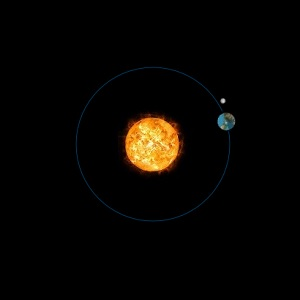
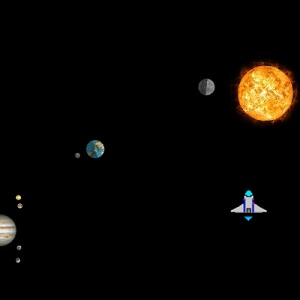
Update SolSys description

diff --git a/js/translation.js b/js/translation.js
@@ -32,7 +32,7 @@ function toItalian(){
 	$(".more").html('Dettagli <span class="icon-plus-square"></span>');
 	trTxt("downloadID","<a title='Scarica una versione leggera del portfolio.' href='indexCompact.html' download='Mario Cannistrà - Web Developer e Programmatore - Portfolio.html'>Scarica il mio Portfolio <span class='icon-download'></span></a>");
 	trTxt("htitleID","Mario Cannistrà - Web Developer e Programmatore - Portfolio");
-	trTxt("profileID","Sono un programmatore e sviluppatore di siti Web di 25 anni. <br>Vivo in Italia, e parlo Inglese fluentemente.<br>Ho esperienza di sviluppo front-end, back-end, e di applicazioni per computer.");
+	trTxt("profileID","Sono un programmatore e sviluppatore di siti Web di 26 anni. <br>Vivo in Italia, e parlo Inglese fluentemente.<br>Ho esperienza di sviluppo front-end, back-end, e di applicazioni per computer.");
 	trTxt("skillsID","Abilità");
 	trTxt("locationID","<span class='icon-map-marker'></span><p> Catanzaro, Italia</p>");
 	trTxt("githubID",'<img src="img/GitHub-Mark-32px.png"> Il mio profilo GitHub');
@@ -60,9 +60,8 @@ function toItalian(){
 		Ho risolto il problema aggiornando periodicamente un array con la posizione di ogni \
 		sezione del serpente, e permettendo al cibo di comparire solo nelle sezioni della mappa non occupate dal serpente.");
 	trTxt("solsysMoreTxt",
-		"Questa è solo una semplice animazione che ho fatto per imparare a usare la <code>canvas</code> di HTML5.<br>\
-		Ci ho lavorato quando stavo ancora imparando Javascript, quindi è molto basilare al momento,\
-		ma penso di migliorarla in futuro, e aggiungere gli altri pianeti quando avrò del tempo libero.");
+		"Questa è un che ho fatto inizialmente per imparare a usare la <code>canvas</code> di HTML5, ma in seguito ho deciso di rifare tutto con Phaser.<br>\
+		Ho iniziato a farla quando stavo ancora imparando Javascript, quindi era molto basilare, ma adesso ho aggiunto più cose.");
 	trTxt("starStuffMoreTxt",
 		"Ho iniziato a sviluppare questo gioco per imparare a usare Qt, ma ho acquisito molta esperienza di programmazione\
 		in generale grazie a questo progetto.<br>\
@@ -74,7 +73,7 @@ function toItalian(){
 	trTxt("otherID","Altro");
 	trTxt("titleID","Sviluppatore Web e Programmatore");
 	trTxt("projectsID","Progetti");
-	trTxt("SolSysDescID","Animazione del Sistema Solare che ho realizzato usando la Canvas di HTML5 e Javascript.");
+	trTxt("SolSysDescID","Animazione del Sistema Solare che ho realizzato usando Phaser.");
 	trTxt("StStfDescID","Un gioco realizzato in C++ con Qt. Ancora incompleto e non in sviluppo attivo per il momento.");
 	trTxt("crawlerDescID","Un clone del gioco Snake. Ho sviluppato questa pagina per dimostrare le tecnologie <a href='https://en.wikipedia.org/wiki/MEAN_(software_bundle)' target='_blank'> MEAN</a>.")
 	trTxt("ICDMDescID","Un social network <a href='https://en.wikipedia.org/wiki/MEAN_(software_bundle)' target='_blank'> MEAN</a> per pescatori subacquei. Permette di condividere la propria posizine tramite geolocalizzazione, e di chattare.");
@@ -85,7 +84,7 @@ function toEnglish(){
 	$(".more").html('Details <span class="icon-plus-square"></span>');
 	trTxt("downloadID","<a title='Downloads a light version of the portfolio.' href='indexCompact.html' download='Mario Cannistrà - Web Developer and Programmer - portfolio.html'>Download my Portfolio <span class='icon-download'></span></a>");
 	trTxt("htitleID","Mario Cannistrà - Web Developer and Programmer - Portfolio");
-	trTxt("profileID","I am a 25 year old Web Developer and Programmer. <br>I live in Italy, and I speak English fluently.<br>I have experience with front-end and back-end web development, and software development.");
+	trTxt("profileID","I am a 26 year old Web Developer and Programmer. <br>I live in Italy, and I speak English fluently.<br>I have experience with front-end and back-end web development, and software development.");
 	trTxt("skillsID","Skills");
 	trTxt("locationID","<span class='icon-map-marker'></span><p> Catanzaro, Italy</p>");
 	trTxt("githubID",'<img src="img/GitHub-Mark-32px.png"> My GitHub profile');
@@ -115,9 +114,8 @@ function toEnglish(){
 		updating an array with the position of each piece of the snake, \
 		and allowing the food to spawn only on coordinates that are not occupied by the snake.");
 	trTxt("solsysMoreTxt",
-		"This is just a simple animation that I made in order to learn how to use HTML5's <code>canvas</code>.<br>\
-		I made it when I was first learning Javascript, so it's very basic at the moment, but I plan to improve it\
-		and add the rest of the planets when I have some free time.");
+		"This is an animation that I made initially in order to learn how to use HTML5's <code>canvas</code>, but then I remade it using Phaser.<br>\
+		I started making it when I was first learning Javascript, so it was initially very simple, but now I've added a few more things.");
 	trTxt("starStuffMoreTxt",
 		"I started making this game to try my hand at Qt, but I've gained a lot of programming experience from this project.<br>\
 		I suspended development for the foreseeable future, when I decided to focus on web development, but I might \
@@ -128,7 +126,7 @@ function toEnglish(){
 	trTxt("otherID","Other");
 	trTxt("titleID","Web Developer and Programmer");
 	trTxt("projectsID","Projects");
-	trTxt("SolSysDescID","Animation of the Solar system I made using HTML5's Canvas and Javascript.");
+	trTxt("SolSysDescID","Animation of the Solar system I made using Phaser.");
 	trTxt("StStfDescID","A game made in C++ with Qt. Still incomplete and on hold for the moment.");
 	trTxt("crawlerDescID","A clone of the game Snake. I made this to demonstrate the <a href='https://en.wikipedia.org/wiki/MEAN_(software_bundle)' target='_blank'>MEAN stack</a> technologies.");
 	trTxt("ICDMDescID","A <a href='https://en.wikipedia.org/wiki/MEAN_(software_bundle)' target='_blank'>MEAN</a> social network for spearfishers. It allows users to share their current location through geolocation, and chat with eachother.");

diff --git a/indexCompact.html b/indexCompact.html
@@ -312,7 +312,7 @@ function toItalian(){
 	$(".more").html('Dettagli <span class="icon-plus-square"></span>');
 	trTxt("downloadID","<a title='Scarica una versione leggera del portfolio.' href='indexCompact.html' download='Mario Cannistrà - Web Developer e Programmatore - Portfolio.html'>Scarica il mio Portfolio <span class='icon-download'></span></a>");
 	trTxt("htitleID","Mario Cannistrà - Web Developer e Programmatore - Portfolio");
-	trTxt("profileID","Sono un programmatore e sviluppatore di siti Web di 25 anni. <br>Vivo in Italia, e parlo Inglese fluentemente.<br>Ho esperienza di sviluppo front-end, back-end, e di applicazioni per computer.");
+	trTxt("profileID","Sono un programmatore e sviluppatore di siti Web di 26 anni. <br>Vivo in Italia, e parlo Inglese fluentemente.<br>Ho esperienza di sviluppo front-end, back-end, e di applicazioni per computer.");
 	trTxt("skillsID","Abilità");
 	trTxt("locationID","<span class='icon-map-marker'></span><p> Catanzaro, Italia</p>");
 	trTxt("githubID",'Il mio profilo GitHub');
@@ -340,9 +340,8 @@ function toItalian(){
 		Ho risolto il problema aggiornando periodicamente un array con la posizione di ogni \
 		sezione del serpente, e permettendo al cibo di comparire solo nelle sezioni della mappa non occupate dal serpente.");
 	trTxt("solsysMoreTxt",
-		"Questa è solo una semplice animazione che ho fatto per imparare a usare la <code>canvas</code> di HTML5.<br>\
-		Ci ho lavorato quando stavo ancora imparando Javascript, quindi è molto basilare al momento,\
-		ma penso di migliorarla in futuro, e aggiungere gli altri pianeti quando avrò del tempo libero.");
+		"Questa è un che ho fatto inizialmente per imparare a usare la <code>canvas</code> di HTML5, ma in seguito ho deciso di rifare tutto con Phaser.<br>\
+		Ho iniziato a farla quando stavo ancora imparando Javascript, quindi era molto basilare, ma adesso ho aggiunto più cose.");
 	trTxt("starStuffMoreTxt",
 		"Ho iniziato a sviluppare questo gioco per imparare a usare Qt, ma ho acquisito molta esperienza di programmazione\
 		in generale grazie a questo progetto.<br>\
@@ -365,7 +364,7 @@ function toEnglish(){
 	$(".more").html('Details <span class="icon-plus-square"></span>');
 	trTxt("downloadID","<a title='Downloads a light version of the portfolio.' href='indexCompact.html' download='Mario Cannistrà - Web Developer and Programmer - portfolio.html'>Download my Portfolio <span class='icon-download'></span></a>");
 	trTxt("htitleID","Mario Cannistrà - Web Developer and Programmer - Portfolio");
-	trTxt("profileID","I am a 25 year old Web Developer and Programmer. <br>I live in Italy, and I speak English fluently.<br>I have experience with front-end and back-end web development, and software development.");
+	trTxt("profileID","I am a 26 year old Web Developer and Programmer. <br>I live in Italy, and I speak English fluently.<br>I have experience with front-end and back-end web development, and software development.");
 	trTxt("skillsID","Skills");
 	trTxt("locationID","<span class='icon-map-marker'></span><p> Catanzaro, Italy</p>");
 	trTxt("githubID",'My GitHub profile');
@@ -395,9 +394,8 @@ function toEnglish(){
 		updating an array with the position of each piece of the snake, \
 		and allowing the food to spawn only on coordinates that are not occupied by the snake.");
 	trTxt("solsysMoreTxt",
-		"This is just a simple animation that I made in order to learn how to use HTML5's <code>canvas</code>.<br>\
-		I made it when I was first learning Javascript, so it's very basic at the moment, but I plan to improve it\
-		and add the rest of the planets when I have some free time.");
+		"This is an animation that I made initially in order to learn how to use HTML5's <code>canvas</code>, but then I remade it using Phaser.<br>\
+		I started making it when I was first learning Javascript, so it was initially very simple, but now I've added a few more things.");
 	trTxt("starStuffMoreTxt",
 		"I started making this game to try my hand at Qt, but I've gained a lot of programming experience from this project.<br>\
 		I suspended development for the foreseeable future, when I decided to focus on web development, but I might \
@@ -434,7 +432,7 @@ function toEnglish(){
 			alt="Profile picture">
 			<h1>Mario Cannistrà</h1>
 			<h2 id="titleID">Web Developer and Programmer</h2>
-			<p id="profileID">I am a 25 year old Web Developer and Programmer. <br>
+			<p id="profileID">I am a 26 year old Web Developer and Programmer. <br>
 				I live in Italy, and I speak English fluently.<br>
 				I have experience with front-end and back-end web development, and software development.
 				Feel free to contact me if you have questions.

diff --git a/index.html b/index.html
@@ -39,7 +39,7 @@
 			<img src="img/115X115.jpg" alt="Profile picture">
 			<h1>Mario Cannistrà</h1>
 			<h2 id="titleID">Web Developer and Programmer</h2>
-			<p id="profileID">I am a 25 year old Web Developer and Programmer. <br>
+			<p id="profileID">I am a 26 year old Web Developer and Programmer. <br>
 				I live in Italy, and I speak English fluently.<br>
 				I have experience with front-end and back-end web development, and software development.
 				Feel free to contact me if you have questions.
@@ -160,7 +160,7 @@
 				<p class="skillTag"><img src="img/icons/css3.png" alt="CSS3" title="CSS3"></p>
 			</div>
 			<br>
-			<p class="alignCenter" id="SolSysDescID">Animation of the Solar system I made using HTML5's Canvas and Javascript.</p>
+			<p class="alignCenter" id="SolSysDescID">Animation of the Solar system I made using Phaser.</p>
 
 			<button id="solsysMore" type="button" class="more btn-primary">
 			Details <span class="icon-plus-square"></span></button>
